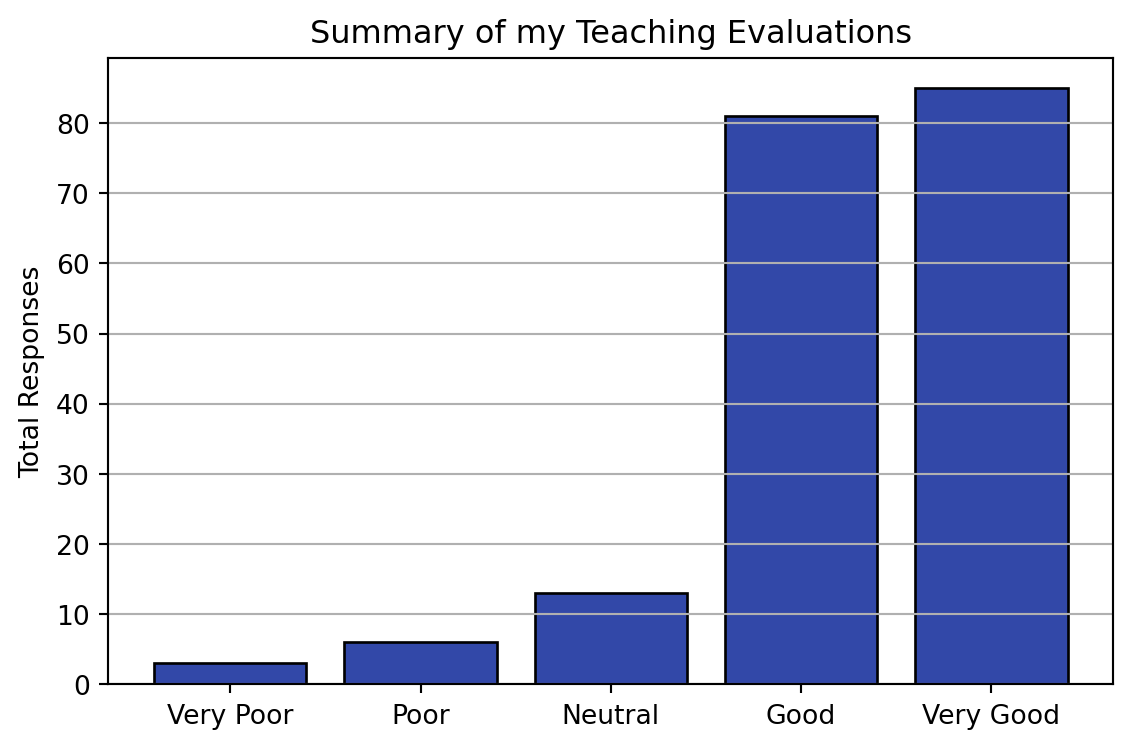
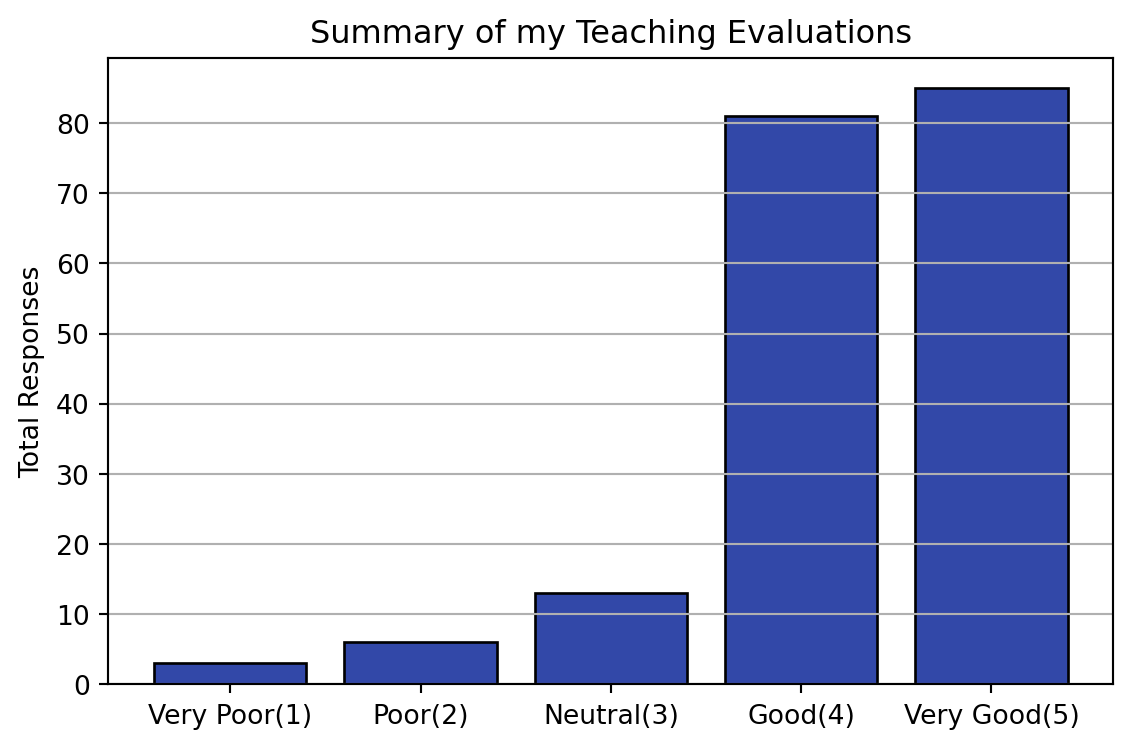
fixed typo

diff --git a/docs/Work.html b/docs/Work.html
@@ -249,16 +249,13 @@ ul.task-list li input[type="checkbox"] {
 </ul>
 <section id="courses" class="level2">
 <h2 class="anchored" data-anchor-id="courses">Courses</h2>
-<p>From Summer 2020 to Summer 2023, I taught Geographic Information Science. You can find the website for the most recent term of the course <a href="https://geos270.github.io/">here</a>. As of Fall 2023, I am teaching “Atmospheric Environments”, which is an introductory level course focusing on the dynamics governing the weather and climate. The course website can be found <a href="https://geos200.github.io/">here</a>. In Winter 2023, I will be teaching “Microscale Weather and Climate”, an upper level course focusing on ecosystem scale weather and climate dynamics and how they influence the global climate system.</p>
+<p>From Summer 2020 to Summer 2023, I taught Geographic Information Science. You can find the website for the most recent term of the course <a href="https://geos270.github.io/">here</a>. As of Fall 2023, I am teaching “Atmospheric Environments”, which is an introductory level course focusing on the dynamics governing the weather and climate. The course website can be found <a href="https://geos200.github.io/">here</a>. In Winter 2023, I will be teaching “Microscale Weather and Climate”, a 300 level course focusing on ecosystem scale weather and climate dynamics and how they influence the global climate system.</p>
 </section>
 <section id="evaluations" class="level2">
 <h2 class="anchored" data-anchor-id="evaluations">Evaluations</h2>
-<p>All of my available teaching evaluations are posted <a href="https://github.com/June-Skeeter/june-skeeter.github.io/tree/main/Evaluations">here</a>. Thus far these evaluations only cover GEOS 270 (Geographic Information Science).</p>
-<ul>
-<li>The wording of the evaluation questions has changed between terms, but one key question has not changed: <strong>Considering everything, how would you rate this course?</strong> The chart and table below summarize my student’s responses.</li>
-</ul>
+<p>All of my available teaching evaluations are posted <a href="https://github.com/June-Skeeter/june-skeeter.github.io/tree/main/Evaluations">here</a>. Thus far these evaluations only cover GEOS 270 (Geographic Information Science). I will post my evaluations for GEOS 200 and GEOS 300 when they become available. The wording of the evaluation questions has changed between terms, but one key question has not changed: <strong>Considering everything, how would you rate this course?</strong> Over the course of my teaching career, the interpolated median of responses to this question is 4.39/5 and my favorability rating (percentage of 4s and 5s) is 88%.</p>
 <div class="center">
-<div class="cell caption-undefined" data-execution_count="1">
+<div class="cell caption-undefined" data-execution_count="2">
 <div class="cell-output cell-output-display">
 <div id="fig-evals" class="quarto-figure quarto-figure-center anchored">
 <figure class="figure">
@@ -268,8 +265,8 @@ ul.task-list li input[type="checkbox"] {
 </div>
 </div>
 </div>
-<div class="cell" data-execution_count="2">
-<div class="cell-output cell-output-display" data-execution_count="2">
+<div class="cell" data-execution_count="3">
+<div class="cell-output cell-output-display" data-execution_count="3">
 <div id="tbl-planets" class="anchored">
 <table class="table table-sm table-striped small">
 <caption>Table&nbsp;1: Student repsones to the question: Considering everything, how would you rate this course?</caption>
@@ -280,11 +277,11 @@ ul.task-list li input[type="checkbox"] {
 <th style="text-align: right;">Section</th>
 <th style="text-align: right;">N</th>
 <th style="text-align: right;">n</th>
-<th style="text-align: right;">Very Poor</th>
-<th style="text-align: right;">Poor</th>
-<th style="text-align: right;">Neutral</th>
-<th style="text-align: right;">Good</th>
-<th style="text-align: right;">Very Good</th>
+<th style="text-align: right;">Very Poor(1)</th>
+<th style="text-align: right;">Poor(2)</th>
+<th style="text-align: right;">Neutral(3)</th>
+<th style="text-align: right;">Good(4)</th>
+<th style="text-align: right;">Very Good(5)</th>
 <th style="text-align: right;">Response Rate</th>
 </tr>
 </thead>

diff --git a/docs/index.html b/docs/index.html
@@ -150,7 +150,7 @@ ul.task-list li input[type="checkbox"] {
 <p><img src="images/profilePic.jpg" class="img-fluid"></p>
 </div>
 </div>
-<p>I’m an avid programmer I am fluent in Python and functionally proficient in a number of other languages including JavaScript, R, and Matlab. I love making maps and enjoy creating interactive, web-based applications for research and education. I prefer to work with open source options whenever possible because accessibility of information, transparency in data analysis, and minimizing barriers to access are central to my research and pedagogical philosophies.</p>
+<p>I’m an avid programmer. I am fluent in Python and functionally proficient in a number of other languages including JavaScript, R, and Matlab. I love making maps and enjoy creating interactive, web-based applications for research and education. I prefer to work with open source options whenever possible because accessibility of information, transparency in data analysis, and minimizing barriers to access are central to my research and pedagogical philosophies.</p>
 <ul>
 <li><p>I created this website to highlight some of my work and provide a template others can use to make their own website!</p>
 <ul>
